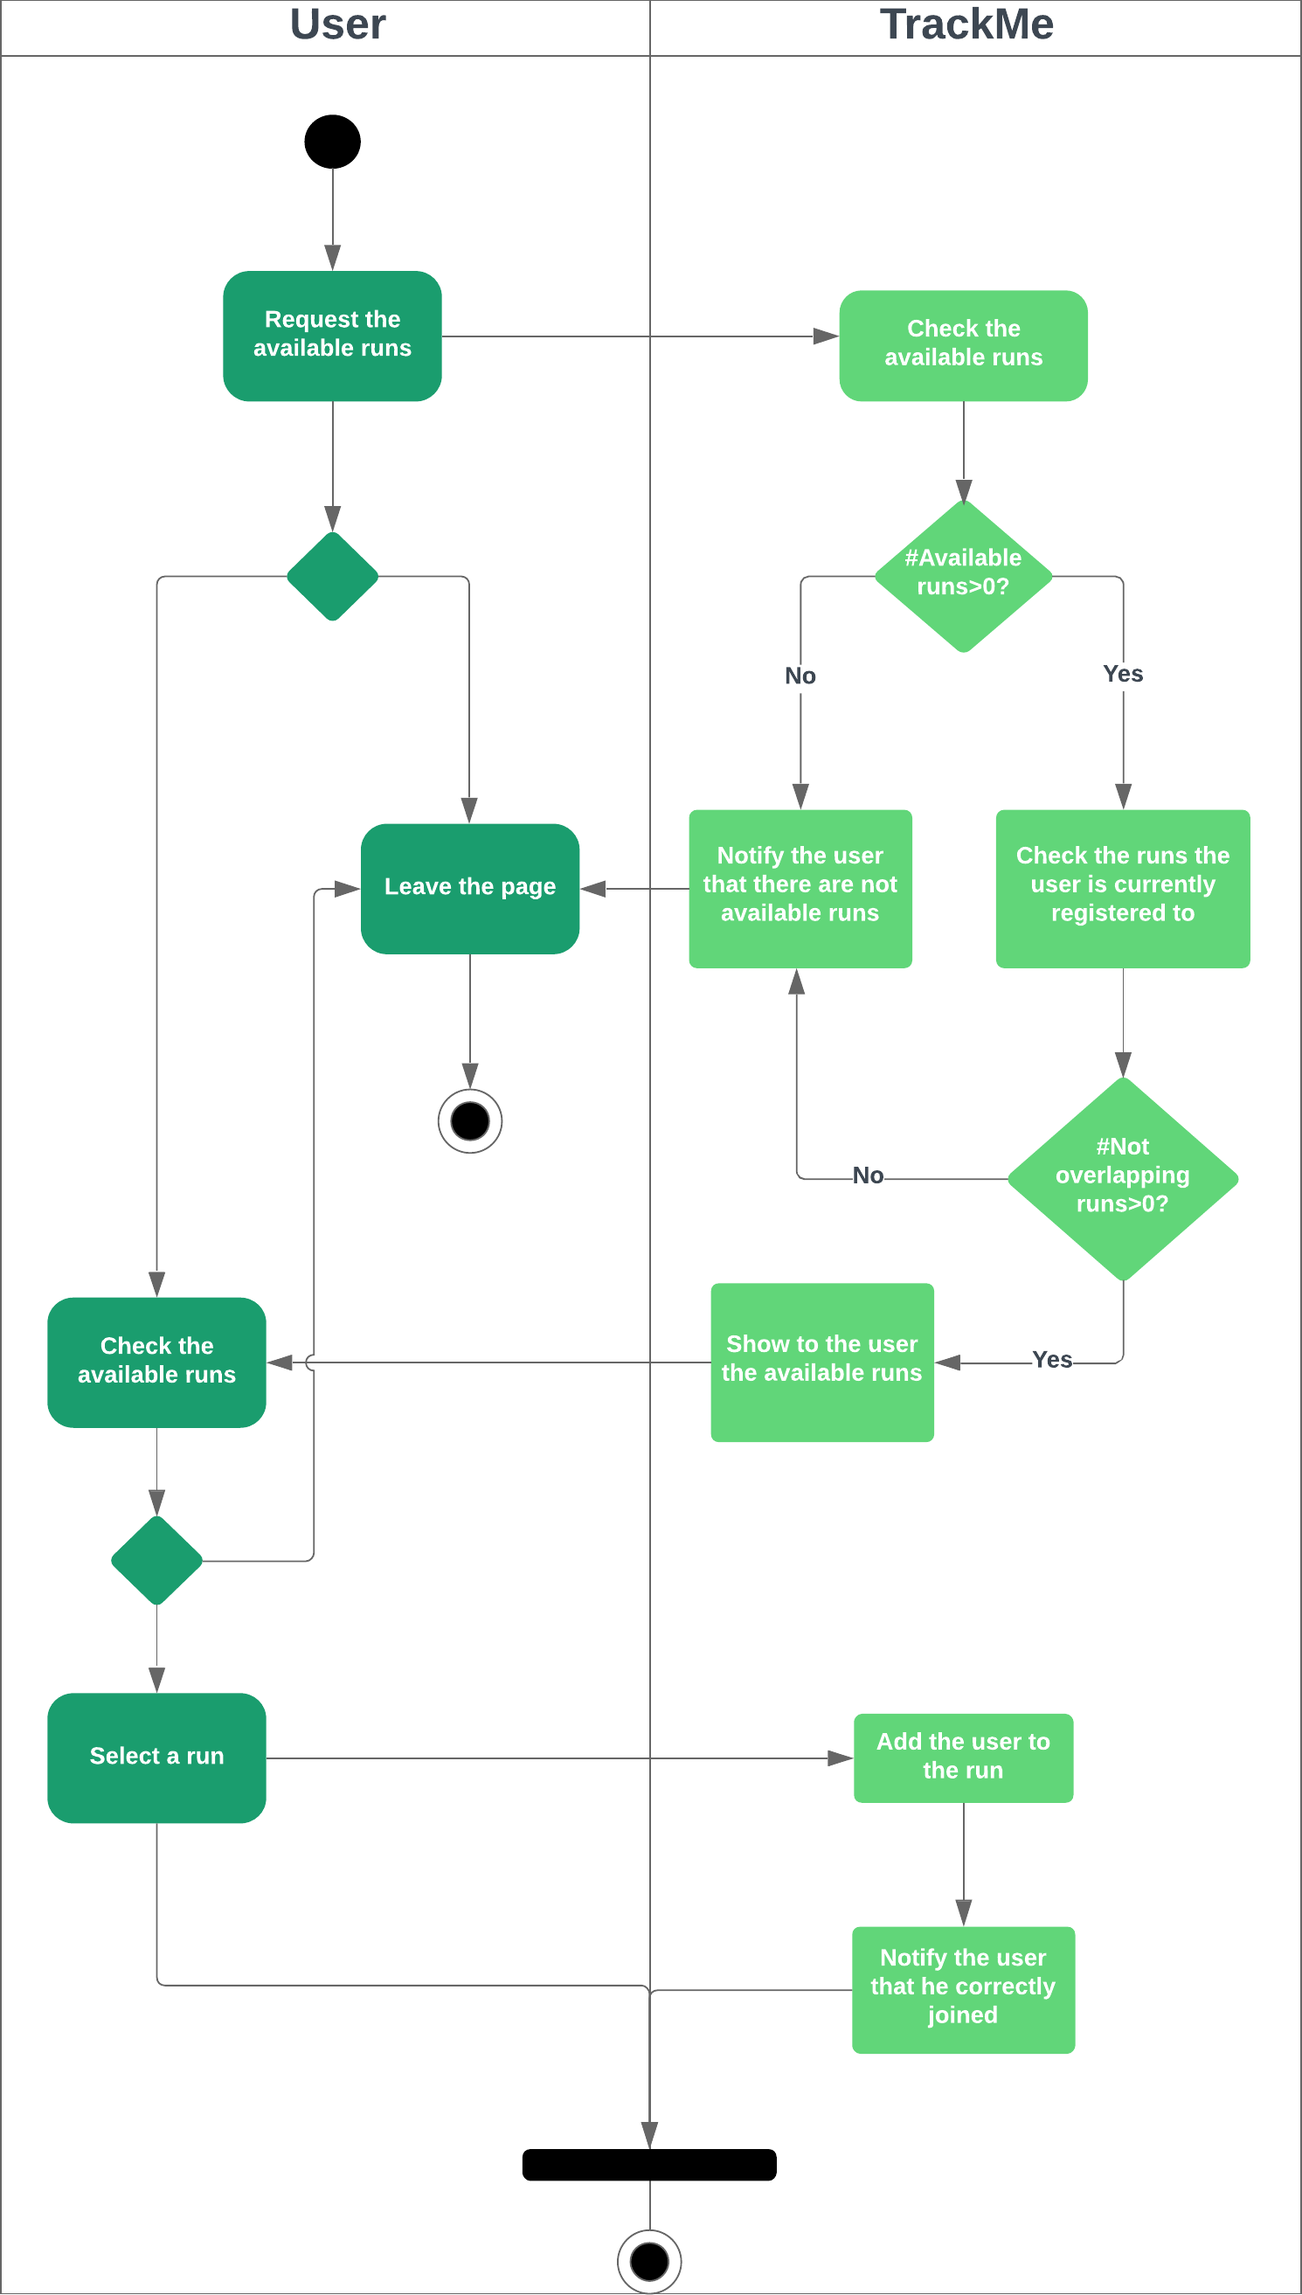
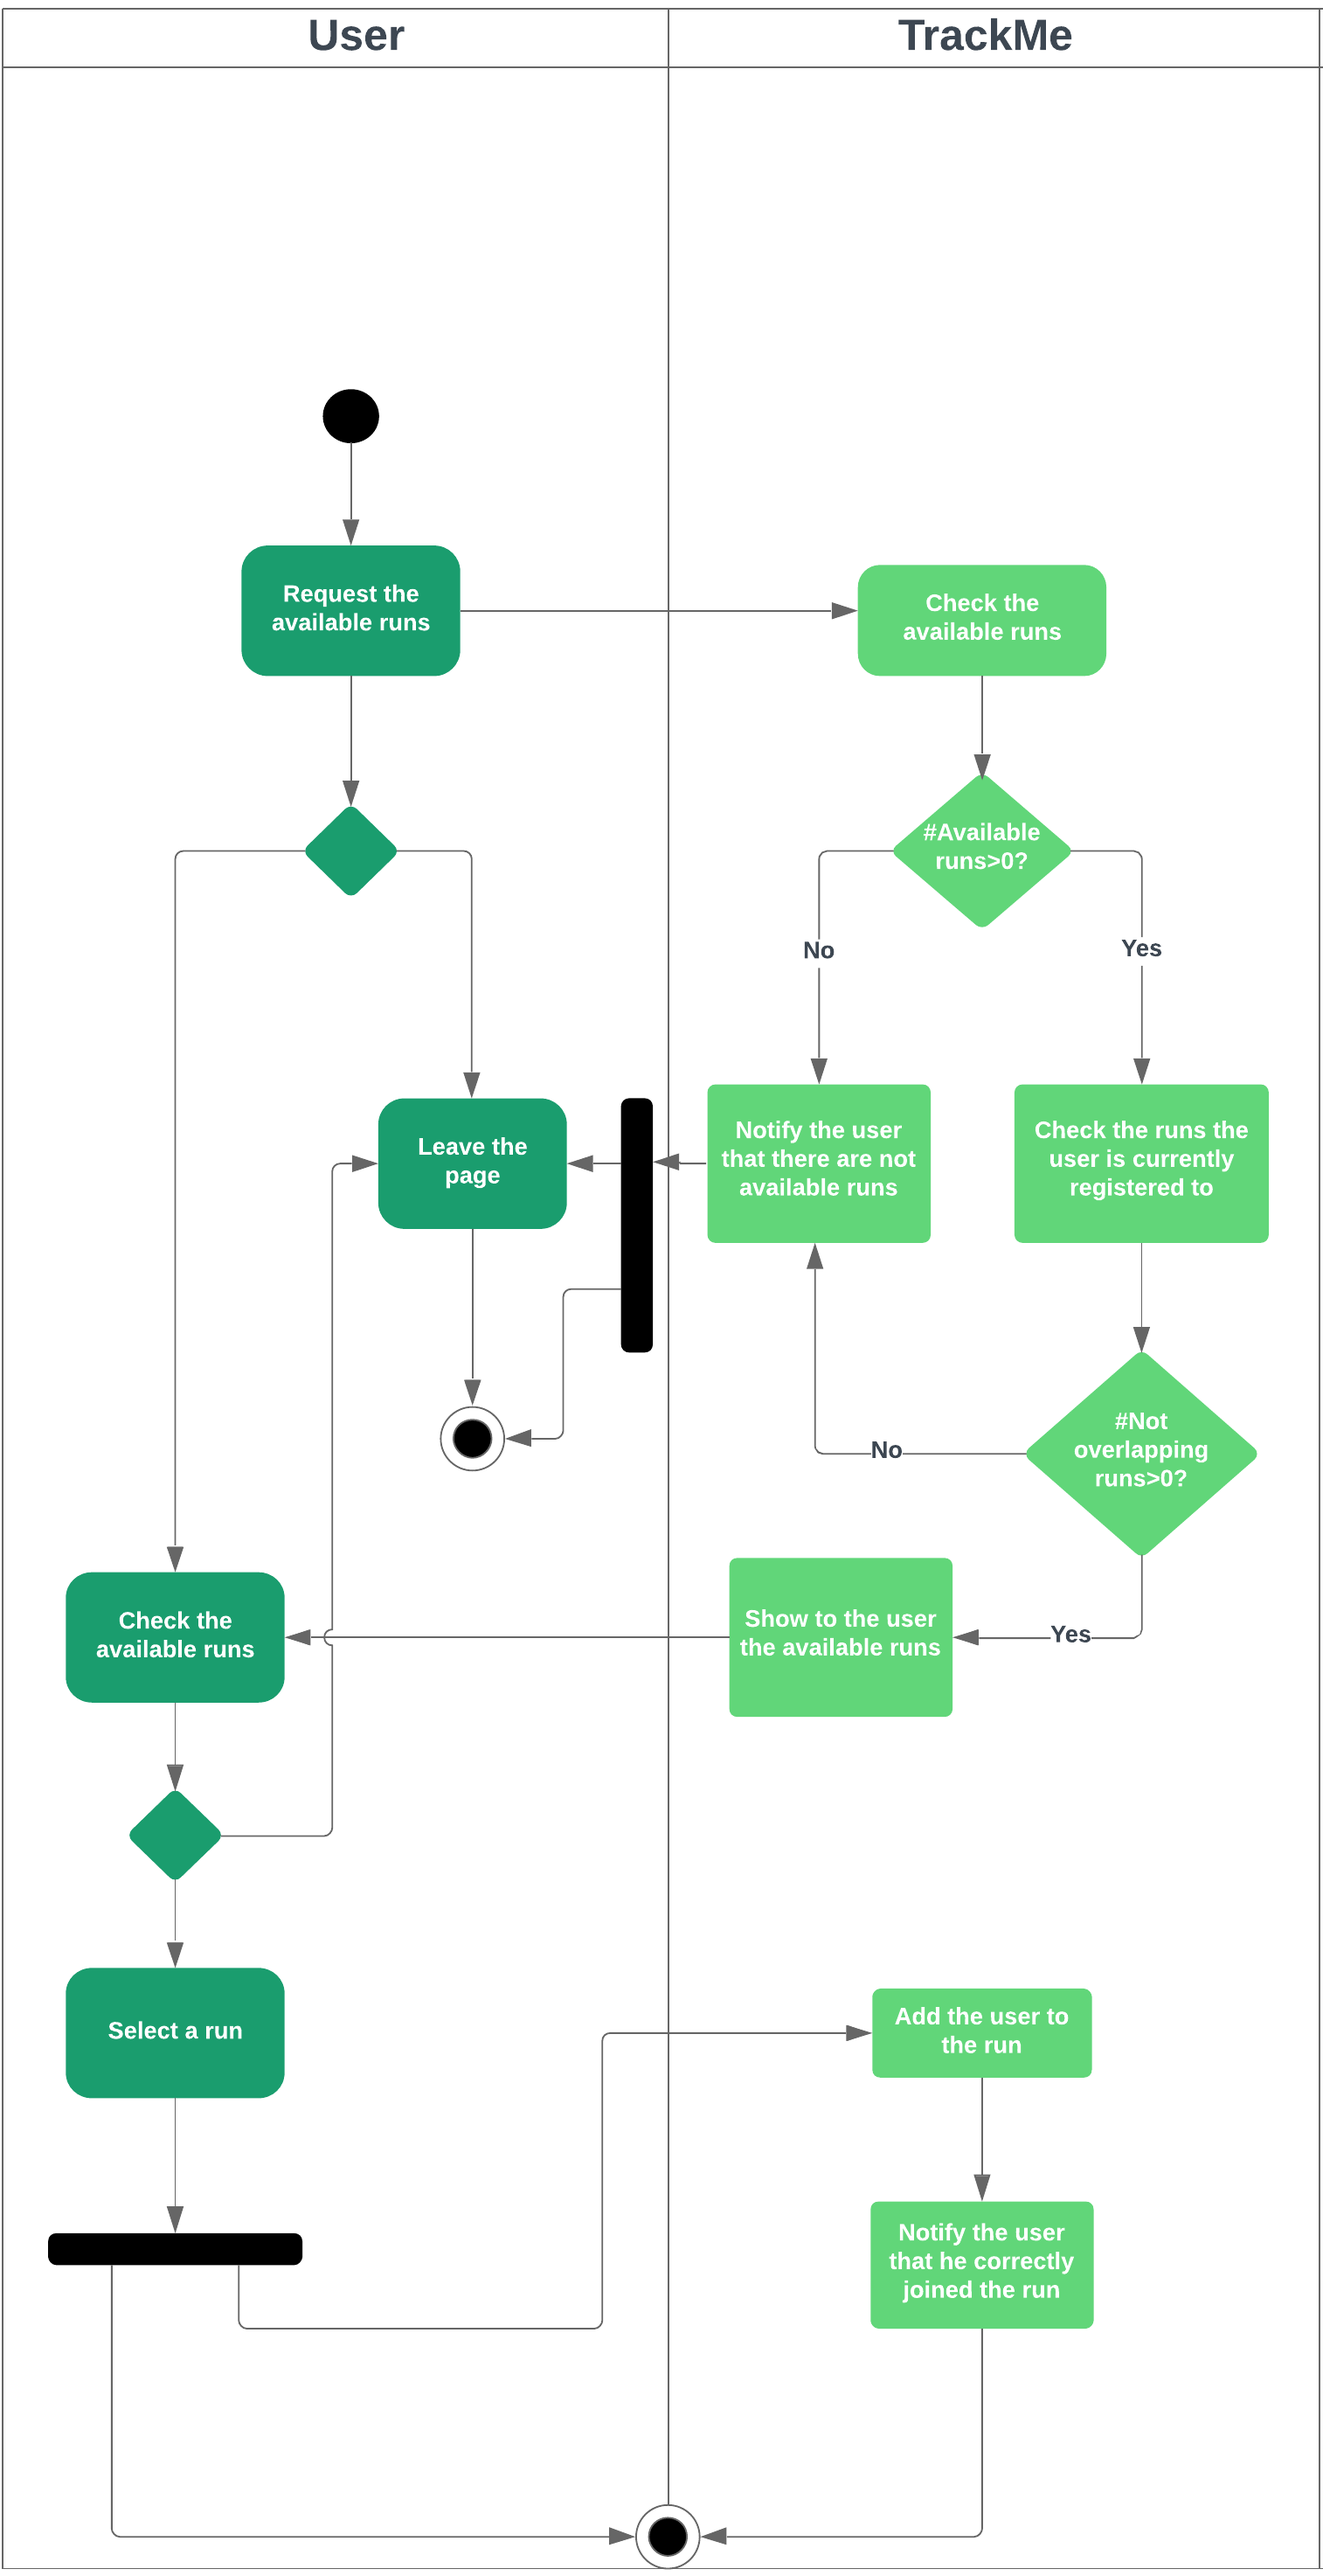
RASD updated

diff --git a/RASD.tex b/RASD.tex
@@ -59,10 +59,10 @@
 	  		\end{legal}
 		\item Functional requirements
 			\begin{legal}
+			\item Scenarios
 			\item Use case diagram
-			\item Use case descriptions
-			\item Sequence diagrams
-			\item Activity diagrams
+			\item Use cases descriptions
+			\item Diagrams
 			\item Global requirements
 			\item Mapping on requirements
 			\end{legal}
@@ -78,7 +78,7 @@
 			\item Reliability
 			\item Availability
 			\item Security
-			\item Maintanability
+			\item Maintainability
 			\item Portability
   			\end{legal}
   		\end{legal}
@@ -101,7 +101,17 @@
 			\begin{legal}
     		\item Description of the system \\\\
 			{\normalfont
-This software system is thought to be a Health Data Management, Run-friendly App, useful for a quite wide range of customers with different necessities. According to these, the TrackMe client base will be mainly represented by: \\-common users, such as people with high/low blood pressure or other heart diseases who desire to be monitored; \\-runners, who may want to check their health parameters while performing or participate to some running events; \\-third parties, whose interest might be to store the users' health data and take statistics on them, or organize runs which inviduals will be free to join.\\ The system will fulfill the needs of the users, providing ad hoc services for each customer segment. In particular, the system's main goal is to facilitate the user's life through an optimal experience. This will be made possible thanks to several features: a quick communication between the actors because of a request-response approach, an high information reliability granted by an efficient data retrieval from the users' wearable devices, and other properties that will be will be further described in later chapters.
+TheTrackMe system is thought to be a Health Data Management and Run-Friendly Mobile App, useful for a quite wide range of customers with different necessities. According to these, the TrackMe client base will be mainly represented by common people who want their health status to be monitored, third parties whose interest might be to store the users' data and take statistics on them, and finally runners.\\ The system will fulfill the needs of the users, providing ad hoc services for each customer segment. In particular, this software system will be  made up of three different modules:\\
+		\begin{itemize}
+		\item Data4Help;\\
+		\item AutomatedSOS;\\
+		\item Track4Run.\\
+		\end{itemize}
+\textit {Data4Help} is a service that allows the third parties to monitor the location and the health status of the individuals. TrackMe acquires the registered users' data trough external devices connected to their smartphones.\\
+The other two services are built on top of Data4Help and their main purpose will be to provide tangible functionalities to the users.\\
+\textit{AutomatedSOS }is an optional service that monitors the health status of the users by performing a continuous evaluation of the health parameters' data acquired by Data4Help. It sends an SOS to an entity that can send an ambulance to the location of the individual if it establishes that the he/she is in danger.\\
+\textit{Track4Run} is a service thought for the organization of running events. It allows the third parties to organize events and the users to enrol to them or simply know the position of runners during a race.\\
+In conclusion, the system's main goal is to facilitate the user's life through an overall optimal experience. This will be made possible thanks to several features, such as a quick communication between the actors because of a request-response approach, an high information reliability granted by an efficient data retrieval from the users' wearable devices, and other properties that will be will be further described in the following sections.
 			}\\
 			\item Goals \\\\
 			{\normalfont
@@ -155,9 +165,9 @@ This software system is thought to be a Health Data Management, Run-friendly App
 			\end{legal}
 		\item \textit{Revision history}\\
 		{\normalfont
-			\begin{legal}
+			\begin{itemize}
 			\item 09/11/2018		Version 1.0\\
-			\end{legal}
+			\end{itemize}
 		}
 		\item \textit{Reference documents}\\
 		{\normalfont	
@@ -190,18 +200,9 @@ The following class diagram describes the structure of the TrackMe system, under
 			\end{figure}
 		\item \textit{Product functions} \\
 		{\normalfont
-		The TrackMe system is a mobile application that is actually made up of three different modules:\\
-		\begin{itemize}
-		\item Data4Help;\\
-		\item AutomatedSOS;\\
-		\item Track4Run.\\
-		\end{itemize}
-\textit {Data4Help} is a service that allows third parties to monitor the location and health status of individuals. TrackMe acquires data of registered users trough external devices connected to the users' smartphones.\\
-The other two services are built on top of Data4Help to provide tangible functionalities for the users.\\
-\textit{AutomatedSOS }is an optional service that monitors the health status of users by performing a continuous evaluation of the health parameters' data acquired by Data4Help. It sends an SOS to an entity that can send an ambulance to the location of the user if it establishes that the user is in danger.\\
-\textit{Track4Run} is a service thought for the organization of running events. It permits to third parties to organize events and to users to enrol to them or simply to know the position of runners during a race.\\
+		
 In the following section, the functions of the system are listed and more precisely specified, with
-respect to the already mentioned main services provided by the system:
+respect to the already mentioned main services:
 		\begin{itemize}
 		\item Monitor an individual\\\\
 		This function permits a third party (an association, an hospital, a company, etc) to ask for the data of a single user. More in detail, the third party can select a user by his/her SSN and send him/her a request to be allowed to access his/her data. If the user accepts it, then the third party will receive his/her data. The third party can request to keep monitoring the individual also after the request and it will receive the data as soon as they are ready. The user can decide to deny the permission at any moment. \\
@@ -257,7 +258,9 @@ respect to the already mentioned main services provided by the system:
   		\begin{legal}
 		\item \textit{External interface requirements}\\
 			\begin{legal}
-    			\item User interfaces \\
+    			\item User interfaces \\\\
+			\normalfont{
+			In this section follow the main mockups that represent a basic idea of what the mobile app will look like in the first release:\\
 					\begin{legal}
     				\item Login or Sign Up 
 						\begin{figure}[H]
@@ -284,16 +287,45 @@ respect to the already mentioned main services provided by the system:
 						\centering
   						\includegraphics[scale=0.3]{./images/mockups/Group-request.png}
 						\end{figure}
+						
 				\end{legal}
+				}
 			\end{legal}
 
     		\item \textit{Functional Requirements}\\
-    		\begin{legal}\bfseries
+    		\begin{legal}
+		\item Scenarios\\
+		{\normalfont
+		\begin{legal}
+		\item Join a run as a runner\\
+
+Mario is a sporty student who hears about a run organized by PoliMi Sport and would like to join it. PoliMi Sport is an association registered to TrackMe as a third party with the aim of guaranteeing the good health status of the enrolled students and proposing them new races every week. The unique way to join the run is to send the request to PoliMi Sport through the TrackMe app, so that Mario decides to download it and sign up. After that, he logs in with his credentials and looks for the run he is interested in. Once found, he asks to join that as a runner and at the same time accepts the treatment of his health status and location data by PoliMi Sport, the third party who organized the race. The system checks if the number of participants is not exceeded and if Mario has not already joined an overlapping run, then notifies Mario with a positive or negative result.\\
+
+\item Join a run as a spectator\\
+
+Luca is a professor who is fond of running and after a lecture hears his students talking about a run organized by the student union Poli4Run. It is an association registered to TrackMe as a third party with the aim of guaranteeing the good health status of the enrolled students and proposing them new races every week. He is very interested in the race joined by their students and he would like to go and see them competing, so Luca asks them for information and decides to follow their instructions. At first he downloads the TrackMe app and then he signs up. After that, he logs in with his credentials and looks for the run he is interested in. Once found, he asks to join that as a spectator. The system checks if the number of spectators is not exceeded and if Luca has not already joined an overlapping run, then notifies Luca with a positive or negative result.\\
+
+
+\item SOS launched\\
+
+Antonella is an old woman who had heart disease in the past so she would like to be daily monitored to avoid problems. Her young nephew tells her about the TrackMe app, through which she could fulfil her needs. Delighted by this kind of solution, she decides to buy a smartwatch and download the app. Then she signs up to the TrackMe app and checks to have the AutomatedSOS service correctly activated. One day, after having climbed the stairs, the app retrieves the data from her smartwatch and evaluates them as exceeding the danger thresholds, so that within 5 seconds the SOS is received by the medical facility that sends an ambulance to the position detected by the woman’s wearable device.\\
+
+
+\item Individual request with a positive result\\
+ 
+The Green Hospital wants to monitor the health status of one of its patient, Paolo, who recently recovered from an important disease. The hospital knows the mobile application TrackMe and it already has a valid account on the app. The doctor who is taking care of Paolo asks him to download the application, to link a smart device able to measure the health parameter needed by the doctor to monitor his health status and to register to the service. The doctor, using the account of the hospital, sends a request to Paolo (known by his SSN) for the treatment of his data. Paolo accepts the request and the hospital is allowed to receive the data produced by Paolo’s device.\\
+
+\item Anonymous request with a negative result\\
+
+The association WalkMore wants to promote walking among young people who have a too sedentary life. As a first step to reach its goal WalkMore decides to use the new amazing app Data4Help to monitor the distance that a group of target young people runs every day. WalkMore registers to Data4Help and forwards a request to access the anonymized data of people between 18 and 23 living in the municipality of Milan. Unfortunately, due to the recent release of the application, there is not enough data in order to guarantee the privacy of the selected target and the request is frozen until enough data are collected.  \\
+
+		\end{legal}
+		}
     		\item Use Case Diagram
     			\begin{figure}[H]
 			  	\includegraphics[width=\linewidth]{./images/usecase.png}
 				\end{figure}
-				\item Use Case Descriptions\\\\
+				\item Use Cases Descriptions\\\\
 				%SIGN UP
 				\begin{tabular}{| m{3.5cm} | m{8cm}| }
 				\hline
@@ -501,49 +533,55 @@ respect to the already mentioned main services provided by the system:
 				\hline
 				\end{tabular}
 				\\\\\\
-			\item Sequence Diagrams
+			\item Diagrams\\\\
+			{\normalfont
+			In this section follow the interaction diagrams that detail how the main TrackMe operations are carried out by the software system:\\
+			
 			\begin{legal}
-			\item Login
+			
+			\item Login - \textit{ Sequence diagram}
 				\begin{figure}[H]
   				\includegraphics[width=\linewidth]{./images/seq-diagrams/Login_diagram.png}
 				\end{figure}
-			\item Sign up
+			\item Sign up - \textit{ Sequence diagram}
 				\begin{figure}[H]
   				\includegraphics[width=\linewidth]{./images/seq-diagrams/Sign_up_diagram.png}
 				\end{figure}
-			\item Individual request
+			\item Individual request - \textit{ Sequence diagram}
 				\begin{figure}[H]
   				\includegraphics[width=\linewidth]{./images/seq-diagrams/Individual_request_diagram.png}
 				\end{figure}
-			\item Group request
+			\item Group request - \textit{ Sequence diagram}
 				\begin{figure}[H]
   				%\includegraphics[width=\linewidth]{./images/seq-diagrams/.png}
 				\end{figure}
-			\item Join a run 
+			\item Join a run  - \textit{ Sequence diagram}
 				\begin{figure}[H]
   				%\includegraphics[width=\linewidth]{./images/seq-diagrams/.png}
 				\end{figure}
-			\item Organize a run
+			\item Organize a run - \textit{ Sequence diagram}
 				\begin{figure}[H]
   				%\includegraphics[width=\linewidth]{./images/seq-diagrams/.png}
 				\end{figure}
-	  		\end{legal}
-			\item Activity Diagram
+			\item Join a run  - \textit{ Activity diagram}
 				\begin{figure}[H]
 				\center
-  				\includegraphics[width=145mm]{./images/Join-a-run-activity-diag.png}
+  				\includegraphics[width=130mm]{./images/Join-a-run-activity-diag.png}
 				\end{figure}
-    		\end{legal}
+			\end{legal}
+			}
+    		
 			
 			% Requirements --------------
 			\item \textit{Global requirements}\\
 			\begin{itemize}
+				\normalfont{
 				\item Third parties and individuals must have registered and logged in to use the services;\\
 				\item The app works also in background in users' smartphones;\\
 				\item There must be a fully working connection between the application and the smartwatches or similar devices.\\
+				}
 			\end{itemize}
-			\begin{legal}
-			\item Mapping on requirements\\
+			\item \textit{Mapping on requirements}\\
 				\begin{itemize}
 				\item G1) Third parties can monitor the position and the health status of the individuals;\\
 				{\normalfont
@@ -656,8 +694,9 @@ respect to the already mentioned main services provided by the system:
 					\end{itemize}
 				}
 				\end{itemize}
+			\end{legal}
 			% End of requirements ------
-    		\end{legal}
+    		
 		\item \textit{Performance requirements}\\
 		\item \textit{Design constraints}\\
     		\item \textit{Software System Attributes }\\
